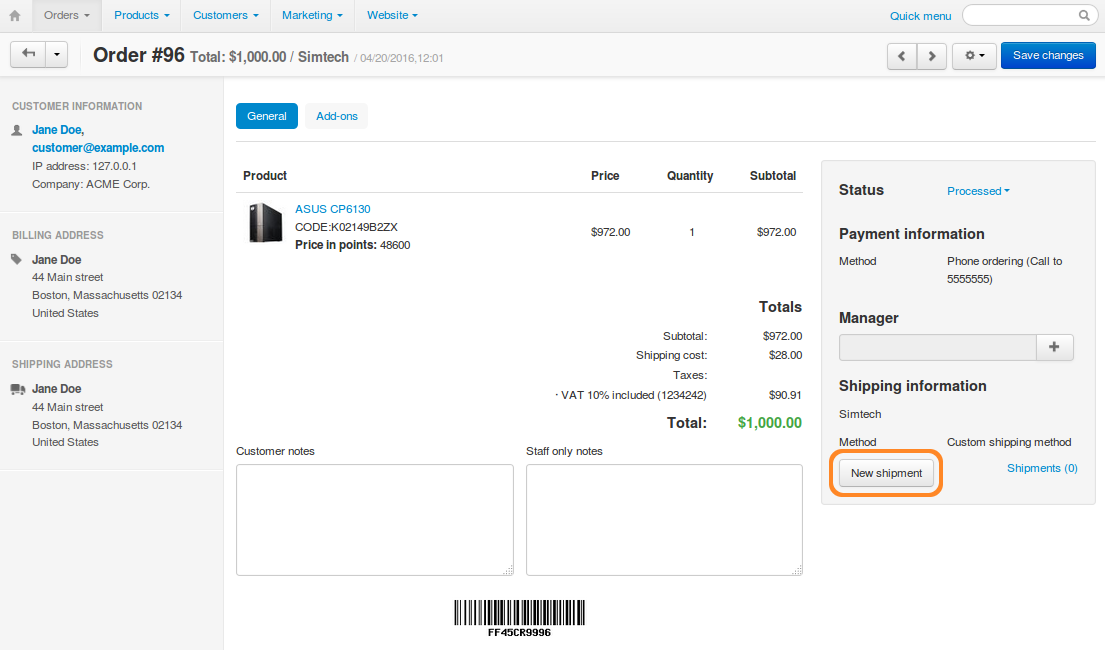
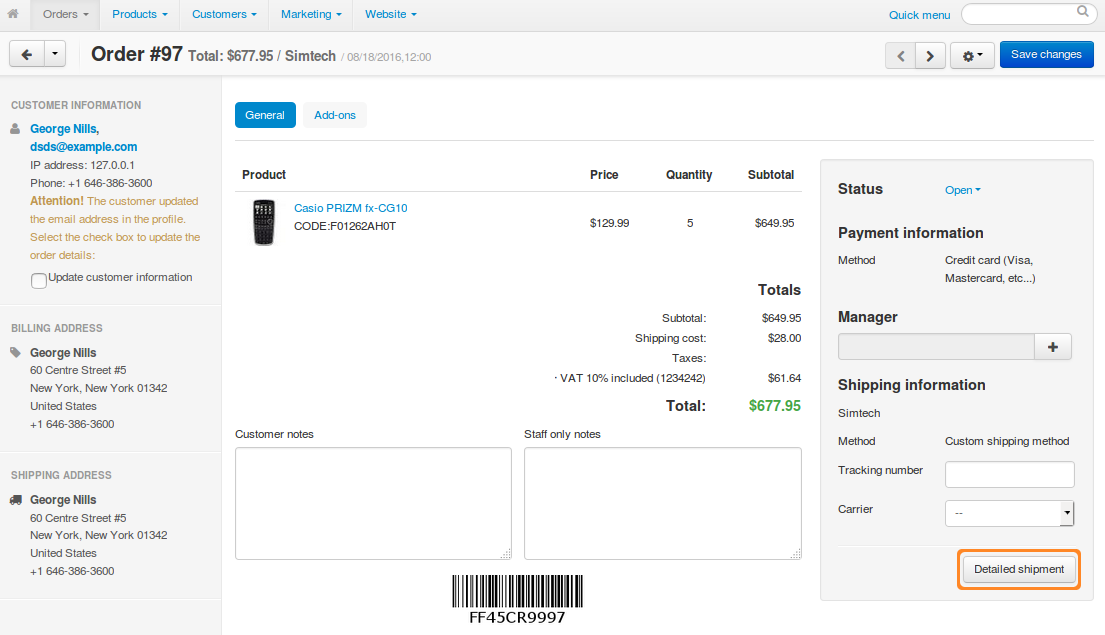
EN: User Guide: Orders: Shipments: Described new ways to create shipments.

diff --git a/en/user_guide/orders/shipments/create_shipment.rst b/en/user_guide/orders/shipments/create_shipment.rst
@@ -8,50 +8,65 @@ How To: Create a Shipment
 
 Shipments are created separately for each order on the **order details** page in the **Shipping information** section.
 
-=================
-Create a Shipment
-=================
 
 1. Open the Administration panel of your store.
 
 2. Go to **Orders → View orders** and choose the required order.
 
-3. Click the **New shipment** button in the **Shipping information** section on the right. This will open a pop-up window.
+3. Create one or multiple shipments for the order:
+
+   * **The quick way** creates a single shipment automatically. You'll have to select a carrier or enter the tracking number.
+
+   * **The thorough way** allows you to create one or multiple shipments. You won't have to select a carrier or enter the tracking number. 
+
+.. note::
+
+    The tracking numbers that you enter appear in the **Shipping Information** section. If you select a carrier, the tracking numbers will show up as links leading to the shipment tracking page at the carrier's website.
+
+.. image:: img/shipment_tracking_number_link.png
+     :align: center
+     :alt: A tracking number can serve as a link to the carrier's website.
+
+-------------
+The Quick Way
+-------------
+
+If you ship all the products in one batch via the same carrier:
+
+* Choose the **carrier** and/or enter the **tracking number**.
+
+* Click **Save changes**. The shipment will be created automatically.
+
+.. image:: img/single_shipment.png
+     :align: center
+     :alt: Press the New Shipment button in the Shipping Information section to create a new shipment.
+
+----------------
+The Thorough Way
+----------------
+
+If you plan to ship products via different carriers or just in separate batches:
+
+* Click **Detailed Shipment**.
 
 .. image:: img/new_shipment.png
-    :align: center
-    :alt: Press the New Shipment button in the Shipping Information section to create a new shipment.
+     :align: center
+     :alt: Press the Detailed Shipment button the Shipping Information section to create a new shipment.
 
-4. For every product in the order, select the number of items that will be delivered in the current shipment.
+* The shipment creation window will open. For every product in the order, select the number of items to be delivered in the current shipment.
 
-.. note ::
+  .. note ::
 
-    If you are going to deliver a particular product in a different shipment, select 0 (zero) from the **Quantity** drop-down list.
+      If you plan to deliver a particular product in a different shipment, select *0* (zero) from the **Quantity** drop-down list.
 
-5. Choose a shipping method.
+* Choose a shipping method.
 
-6. Optionally, enter a tracking number, choose a carrier, and add your comments.
+* Optionally, enter a tracking number, choose a carrier, and add your comments.
 
-7. Change the order status, if necessary.
+* Change the order status, if necessary.
 
-8. Click the **Create** button.
+* Click the **Create** button.
 
 .. image:: img/shipment_01.png
     :align: center
     :alt: Fill in the form and press the Create button to create a shipment.
-
-===================
-View Your Shipments
-===================
-
-1. Go to **Orders → Shipments** to find the list of all the shipments you've created.
-
-.. image:: img/shipment_list.png
-    :align: center
-    :alt: You can view all the existing shipments under Orders → Shipments.
-
-2. Click the **gear** button of the desired shipment and choose **View** to see the details of the particular shipment. You can edit the comments and the date of the shipment. Remember to click **Save changes** once you've done that.   
-
-.. image:: img/shipment_details.png
-    :align: center
-    :alt: You can edit the comments and the date of the shipment.

diff --git a/en/user_guide/orders/shipments/index.rst b/en/user_guide/orders/shipments/index.rst
@@ -2,11 +2,25 @@
 Shipments
 *********
 
-CS-Cart and Multi-Vendor allow you to ship items from a single order in multiple batches and/or at different periods of time. These batches are treated as separate **shipments** of one order. This is useful when you have to deal with back orders regularly.
+CS-Cart and Multi-Vendor allow you to ship items from a single order in multiple batches and/or at different periods of time. These batches are treated as separate **shipments** of one order. This is useful when you have to deal with backorders regularly.
 
 For example, if a customer orders several items that are out of stock, you can ship the in-stock items once the order has been placed, and send the remaining items at a later date as a separate shipment.
 
-The tracking numbers of the shipments appear in the **Shipping Information** section. If you specify a carrier, the tracking numbers will show up as links leading to the shipment tracking page at the carrier's website.
+===================
+View Your Shipments
+===================
+
+1. Go to **Orders → Shipments** to find the list of all the shipments created in your store.
+
+.. image:: img/shipment_list.png
+    :align: center
+    :alt: You can view all the existing shipments under Orders → Shipments.
+
+2. Click the **gear** button of the desired shipment and choose **View** to see the details of the particular shipment. You can edit the comments and the date of the shipment. Remember to click **Save changes** once you've done that.   
+
+.. image:: img/shipment_details.png
+    :align: center
+    :alt: You can edit the comments and the date of the shipment.
 
 ===============
 In this section
